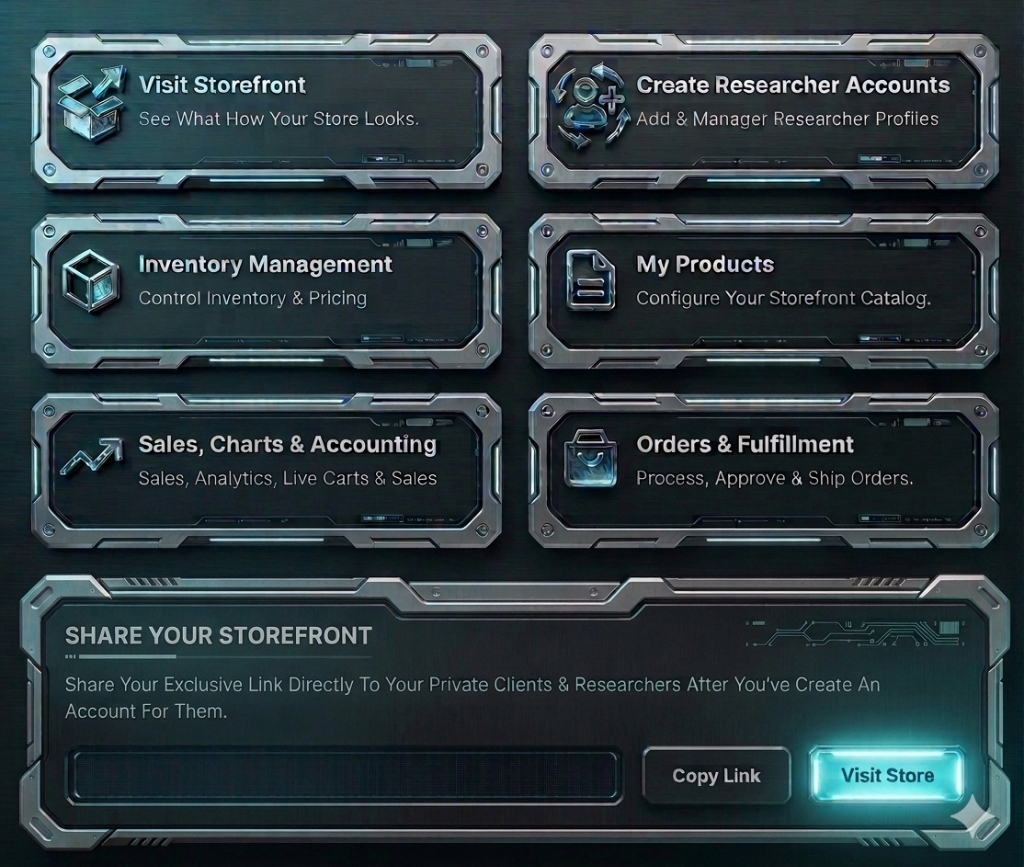
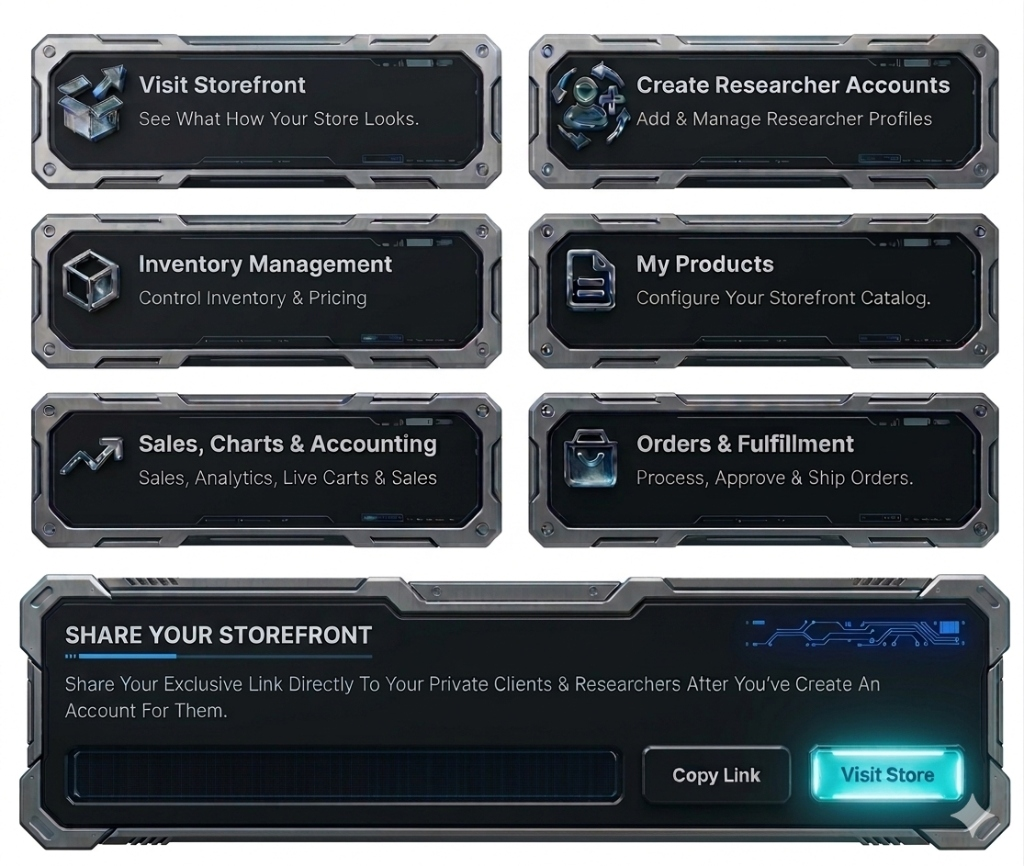
fix: Replace dashboard image (bg removed), remove overlay buttons, fix URL fit
- Replaced with new transparent-background version of dashboard image
- Removed visible Copy Link / Visit Store overlay buttons
- Now using invisible clickable zones over the image's own buttons
- URL text properly sized and positioned inside the dark input area
- Responsive font sizing for mobile

diff --git a/components/AgentOverview.tsx b/components/AgentOverview.tsx
@@ -18,209 +18,153 @@ export default function AgentOverview({
   copiedStorefront,
   onNavigate
 }: AgentOverviewProps) {
-  // The 6 clickable card zones mapped to % positions on the background image
-  // Image is 1024x867. Cards grid occupies ~top 63%, bottom card ~bottom 37%
+  // 6 nav card clickable zones (percentage positions on the 1024x866 image)
   const cardZones = [
-    {
-      id: 'storefront',
-      top: '1.5%', left: '1.5%', width: '47%', height: '18.5%',
-      action: () => window.open(storefrontUrl, '_blank', 'noopener,noreferrer'),
-    },
-    {
-      id: 'researchers',
-      top: '1.5%', left: '51.5%', width: '47%', height: '18.5%',
-      action: () => onNavigate?.('Researchers'),
-    },
-    {
-      id: 'inventory',
-      top: '22%', left: '1.5%', width: '47%', height: '18.5%',
-      action: () => onNavigate?.('Inventory'),
-    },
-    {
-      id: 'products',
-      top: '22%', left: '51.5%', width: '47%', height: '18.5%',
-      action: () => onNavigate?.('Store Products'),
-    },
-    {
-      id: 'sales',
-      top: '42.5%', left: '1.5%', width: '47%', height: '18.5%',
-      action: () => onNavigate?.('Sales & Carts'),
-    },
-    {
-      id: 'orders',
-      top: '42.5%', left: '51.5%', width: '47%', height: '18.5%',
-      action: () => onNavigate?.('Orders'),
-    },
+    { id: 'storefront', top: '1%', left: '1%', width: '47%', height: '18%',
+      action: () => window.open(storefrontUrl, '_blank', 'noopener,noreferrer') },
+    { id: 'researchers', top: '1%', left: '52%', width: '47%', height: '18%',
+      action: () => onNavigate?.('Researchers') },
+    { id: 'inventory', top: '22%', left: '1%', width: '47%', height: '18%',
+      action: () => onNavigate?.('Inventory') },
+    { id: 'products', top: '22%', left: '52%', width: '47%', height: '18%',
+      action: () => onNavigate?.('Store Products') },
+    { id: 'sales', top: '43%', left: '1%', width: '47%', height: '18%',
+      action: () => onNavigate?.('Sales & Carts') },
+    { id: 'orders', top: '43%', left: '52%', width: '47%', height: '18%',
+      action: () => onNavigate?.('Orders') },
   ];
 
   return (
     <>
       <style dangerouslySetInnerHTML={{__html: `
-        .dashboard-hero-container {
+        .dash-hero {
           position: relative;
           width: 100%;
           max-width: 900px;
           margin: 0 auto;
         }
-        .dashboard-hero-img {
+        .dash-hero-img {
           width: 100%;
           height: auto;
           display: block;
-          border-radius: var(--radius-lg, 12px);
           user-select: none;
           -webkit-user-drag: none;
         }
-        .dashboard-card-zone {
+        .dash-zone {
           position: absolute;
           cursor: pointer;
           border-radius: 8px;
           transition: background 0.2s ease, box-shadow 0.2s ease;
           z-index: 2;
         }
-        .dashboard-card-zone:hover {
-          background: rgba(0, 196, 188, 0.08);
-          box-shadow: 0 0 30px rgba(0, 196, 188, 0.15), inset 0 0 20px rgba(0, 196, 188, 0.05);
+        .dash-zone:hover {
+          background: rgba(0, 196, 188, 0.07);
+          box-shadow: 0 0 24px rgba(0, 196, 188, 0.12);
         }
-        .dashboard-card-zone:active {
-          background: rgba(0, 196, 188, 0.15);
+        .dash-zone:active {
+          background: rgba(0, 196, 188, 0.14);
         }
-        .dashboard-bottom-overlay {
+        /* URL text inside the dark input area of the bottom card */
+        .dash-url {
           position: absolute;
           z-index: 3;
-        }
-        .dashboard-url-display {
           font-family: var(--font-brand, monospace);
-          font-size: 0.82rem;
+          font-size: 0.75rem;
           color: var(--teal, #00C4BC);
           white-space: nowrap;
           overflow: hidden;
           text-overflow: ellipsis;
           pointer-events: none;
-        }
-        .dashboard-bottom-btn {
-          cursor: pointer;
-          border: none;
-          padding: 8px 16px;
-          border-radius: 6px;
-          font-size: 0.78rem;
-          font-weight: 700;
-          font-family: var(--font-brand, sans-serif);
-          letter-spacing: 0.04em;
-          text-transform: uppercase;
-          text-decoration: none;
-          display: inline-flex;
+          display: flex;
           align-items: center;
-          justify-content: center;
-          transition: transform 0.15s ease, box-shadow 0.15s ease;
         }
-        .dashboard-bottom-btn:hover {
-          transform: scale(1.05);
+        /* Invisible clickable zone over the image's Copy Link button */
+        .dash-btn-zone {
+          position: absolute;
+          cursor: pointer;
+          z-index: 3;
+          background: transparent;
+          border: none;
+          padding: 0;
         }
-        .dashboard-bottom-btn:active {
-          transform: scale(0.97);
+        .dash-btn-zone:hover {
+          background: rgba(255,255,255,0.04);
+          border-radius: 4px;
         }
-        .dashboard-btn-copy {
-          background: rgba(255,255,255,0.08);
-          color: var(--silver-light, #C8D0D8);
-          border: 1px solid rgba(255,255,255,0.15);
-        }
-        .dashboard-btn-copy:hover {
-          background: rgba(255,255,255,0.14);
-        }
-        .dashboard-btn-visit {
-          background: var(--teal, #00C4BC);
-          color: var(--black, #050A0F);
-          box-shadow: 0 0 16px rgba(0, 196, 188, 0.4);
-        }
-        .dashboard-btn-visit:hover {
-          box-shadow: 0 0 28px rgba(0, 196, 188, 0.6);
-        }
-        /* Mobile responsive */
         @media (max-width: 600px) {
-          .dashboard-url-display {
-            font-size: 0.68rem;
+          .dash-url {
+            font-size: 0.6rem;
           }
-          .dashboard-bottom-btn {
-            font-size: 0.68rem;
-            padding: 6px 10px;
+        }
+        @media (max-width: 400px) {
+          .dash-url {
+            font-size: 0.5rem;
           }
         }
       `}} />
 
-      <div className="dashboard-hero-container">
-        {/* Background Image — the exact design from the user */}
+      <div className="dash-hero">
         <img
           src="/images/agent-dashboard-nav.jpg"
           alt="Agent Dashboard Navigation"
-          className="dashboard-hero-img"
+          className="dash-hero-img"
           draggable={false}
         />
 
-        {/* Clickable overlay zones for the 6 cards */}
+        {/* 6 card clickable zones */}
         {cardZones.map((zone) => (
           <div
             key={zone.id}
-            className="dashboard-card-zone"
+            className="dash-zone"
             onClick={zone.action}
             role="button"
             tabIndex={0}
             onKeyDown={(e) => { if (e.key === 'Enter' || e.key === ' ') zone.action(); }}
-            aria-label={zone.id.replace(/-/g, ' ')}
-            style={{
-              top: zone.top,
-              left: zone.left,
-              width: zone.width,
-              height: zone.height,
-            }}
+            aria-label={zone.id}
+            style={{ top: zone.top, left: zone.left, width: zone.width, height: zone.height }}
           />
         ))}
 
-        {/* Bottom card overlay — Dynamic URL + buttons */}
-        {/* URL text positioned over the dark input area in the image */}
-        <div
-          className="dashboard-bottom-overlay"
+        {/* Dynamic storefront URL text — positioned inside the dark input box */}
+        <span
+          className="dash-url"
           style={{
-            bottom: '5.5%',
-            left: '4%',
-            width: '52%',
-            height: '5.5%',
-            display: 'flex',
-            alignItems: 'center',
-            paddingLeft: '1%',
+            bottom: '5.8%',
+            left: '5%',
+            width: '46%',
+            height: '5%',
           }}
         >
-          <span className="dashboard-url-display">{storefrontUrl}</span>
-        </div>
+          {storefrontUrl}
+        </span>
 
-        {/* Copy Link button positioned over the "Copy Link" area */}
+        {/* Invisible clickable zone over "Copy Link" button in the image */}
         <button
-          className="dashboard-bottom-btn dashboard-btn-copy"
+          className="dash-btn-zone"
           onClick={copyStorefrontLink}
+          aria-label={copiedStorefront ? 'Link Copied' : 'Copy Link'}
           style={{
-            position: 'absolute',
-            bottom: '5%',
-            right: '20%',
-            zIndex: 4,
+            bottom: '4.2%',
+            right: '17%',
+            width: '14%',
+            height: '6%',
           }}
-        >
-          {copiedStorefront ? 'Copied!' : 'Copy Link'}
-        </button>
+        />
 
-        {/* Visit Store button positioned over the "Visit Store" area */}
+        {/* Invisible clickable zone over "Visit Store" button in the image */}
         <a
           href={storefrontUrl}
           target="_blank"
           rel="noopener noreferrer"
-          className="dashboard-bottom-btn dashboard-btn-visit"
+          className="dash-btn-zone"
+          aria-label="Visit Store"
           style={{
-            position: 'absolute',
-            bottom: '5%',
-            right: '3%',
-            zIndex: 4,
+            bottom: '4.2%',
+            right: '1.5%',
+            width: '14%',
+            height: '6%',
           }}
-        >
-          Visit Store
-        </a>
+        />
       </div>
     </>
   );
